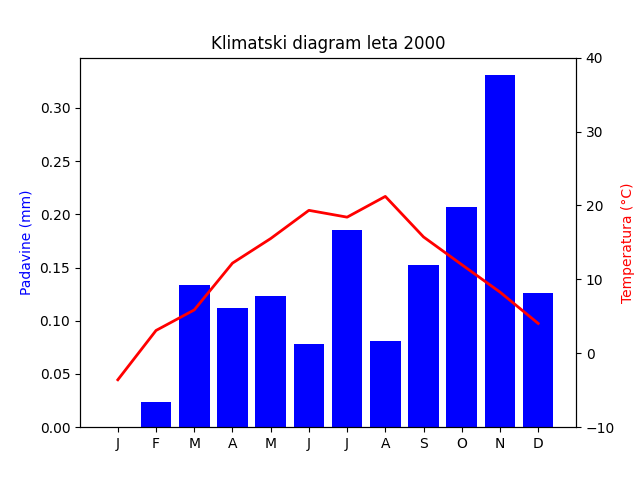
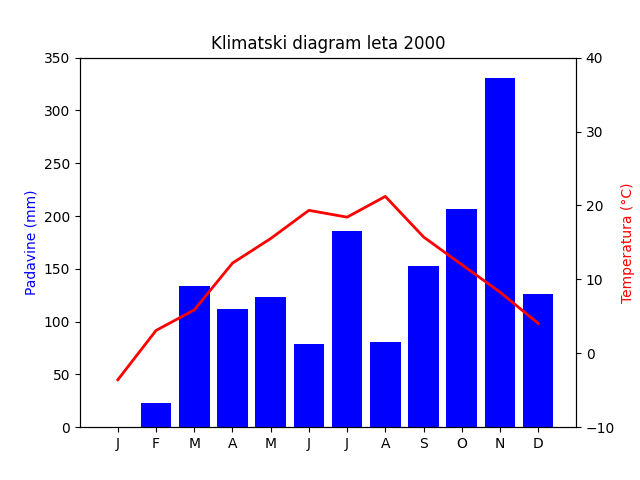
popravil napake

diff --git a/zbiranje_podatkov.py b/zbiranje_podatkov.py
@@ -176,8 +176,9 @@ def risanje_klimograma(leto, povp_temp, povp_pad):
 
 	# Stolpci za padavine
 	ax1.bar(x, padavine, color='b')
+	ax1.set_yticks([0, 0.05, 0.1, 0.15, 0.2, 0.25, 0.3, 0.35])
+	ax1.set_yticklabels([0, 50, 100, 150, 200, 250, 300, 350])
 	ax1.set_ylabel('Padavine (mm)', color='b')
-
 
 	# Druga os za temperaturo
 	ax2 = ax1.twinx()